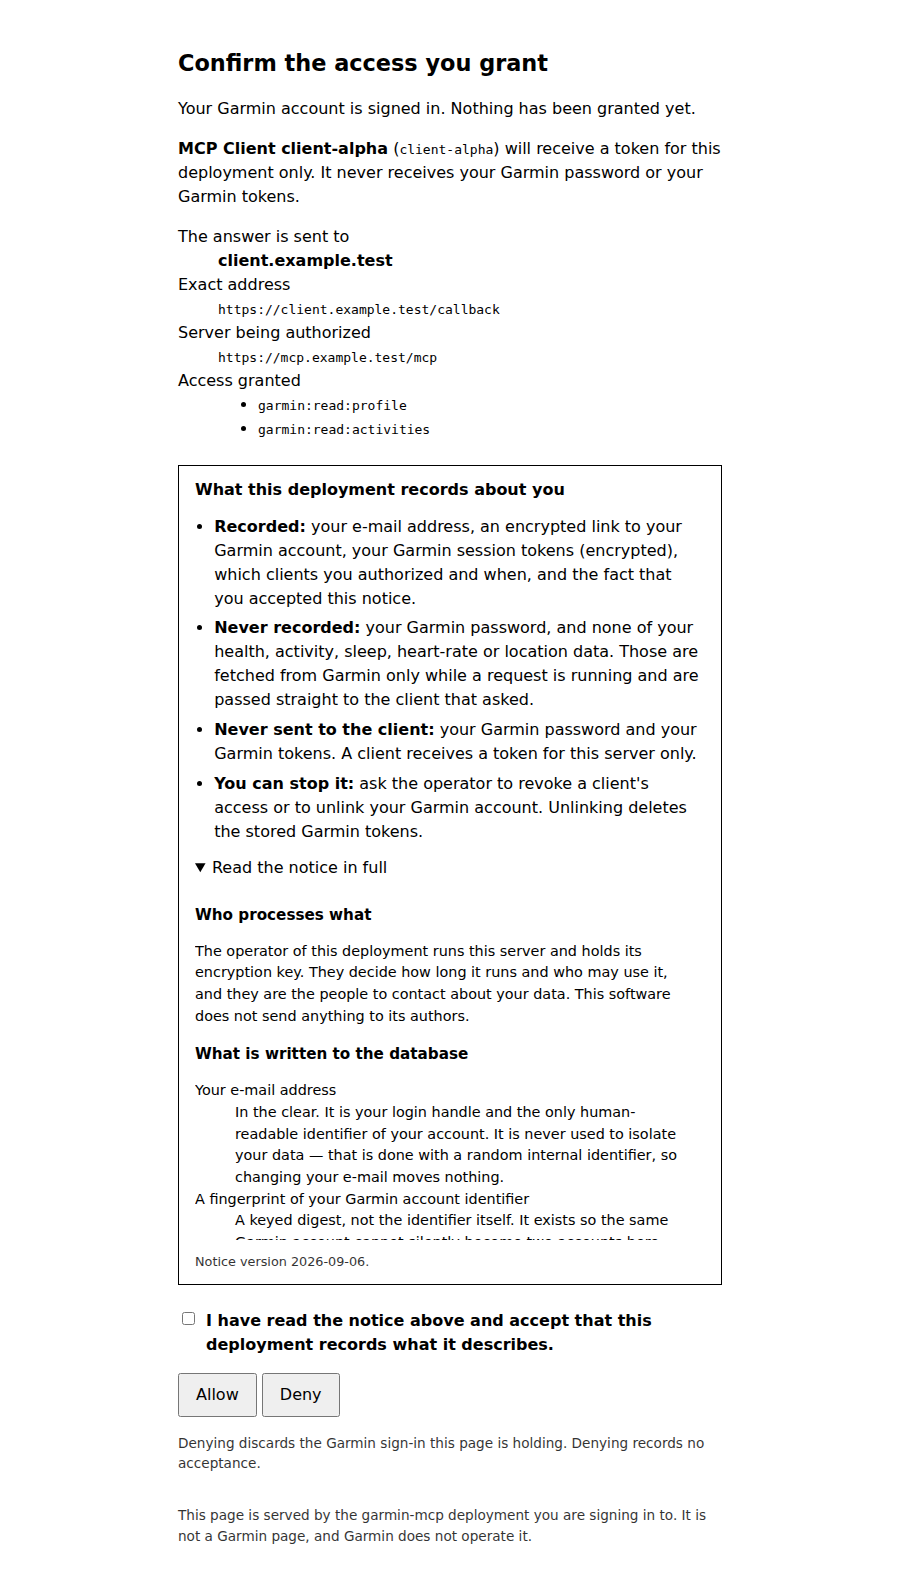
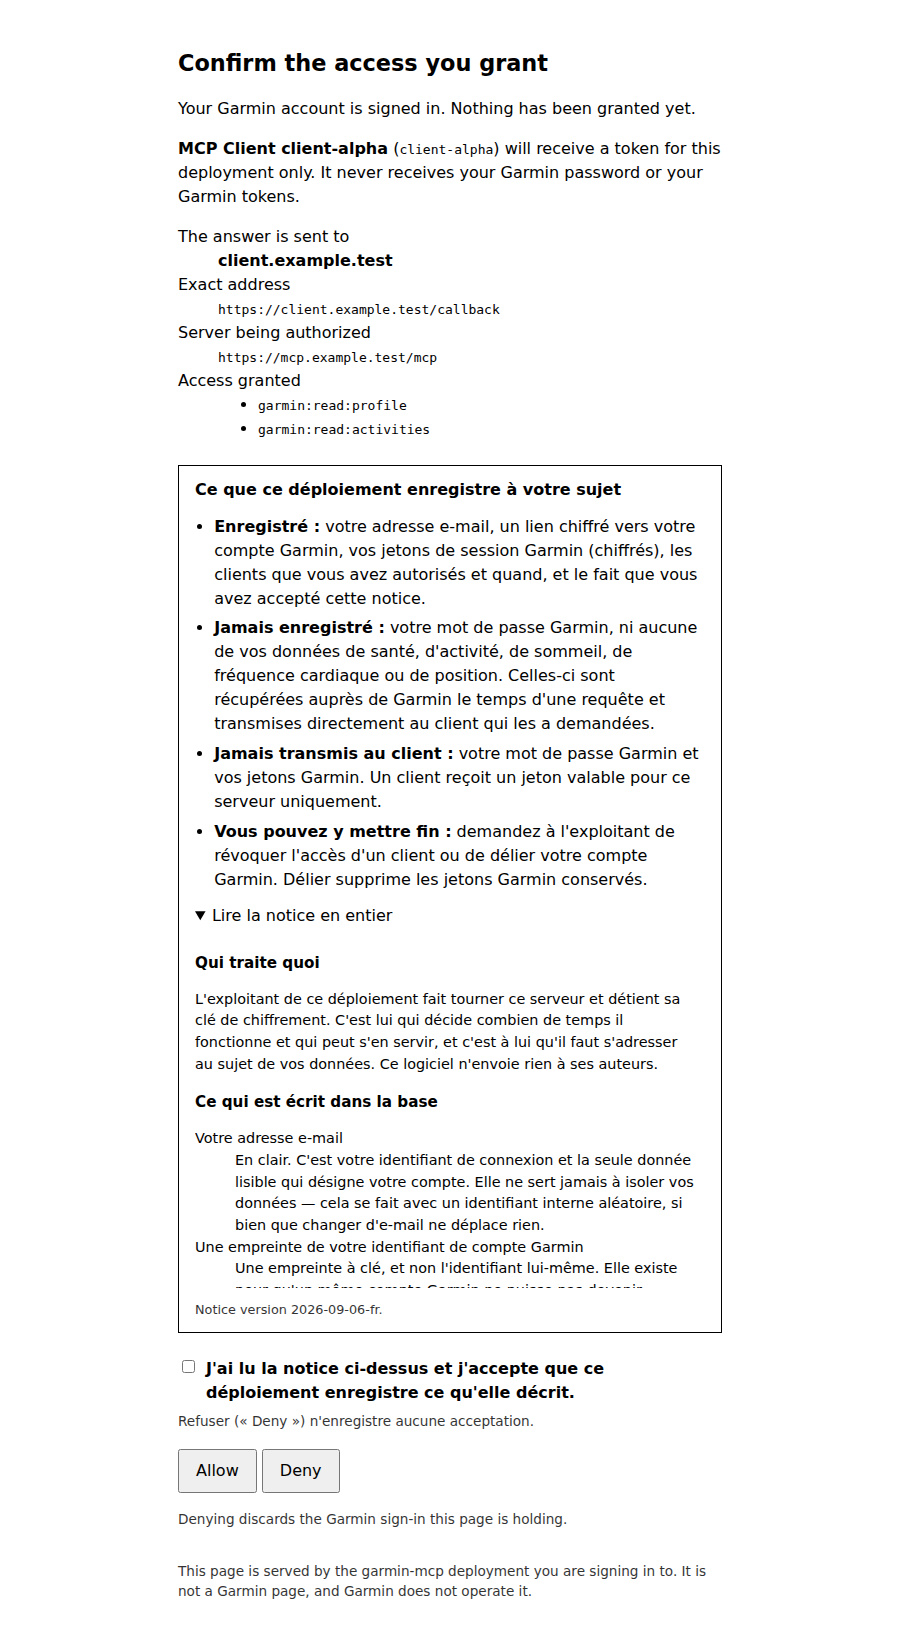
Traduire la notice de confidentialite en francais
La notice et les libelles que ce depot ajoute autour d'elle — le titre du
bloc, le depliant, la case a cocher, la phrase qui rappelle la date d'une
acceptation anterieure, et le message que le serveur renvoie quand la
case n'a pas ete cochee — passent en francais.

Le libelle de version devient 2026-09-06-fr. L'empreinte du texte change
de toute facon, donc chaque compte reverra la notice et l'acceptera a
nouveau : c'est exactement ce que le mecanisme doit faire quand le texte
change, et le libelle est la pour qu'un rapport dise laquelle.

Le reste de la page reste en anglais, parce qu'il vient du serveur amont :
le titre, le descriptif du client demandeur, les boutons Allow et Deny. La
phrase amont sur le refus est laissee intacte plutot que traduite a
moitie ; la precision que refuser n'enregistre aucune acceptation rejoint
le bloc francais, sous la case a cocher.

Verifie en executant : suite Go complete verte, page rendue et relue dans
Chromium dans ses trois etats (premiere visite, refus sans avoir coche,
compte ayant deja accepte), 60 tests Python.

Claude-Session: https://claude.ai/code/session_01WZYVEYkeEop6F5KTarVWiq

Changed region(s): [[0.1867, 0.0308, 0.7778, 0.9849]]

diff --git a/garmin-mcp/internal/loginweb/pages/remote/privacy.html b/garmin-mcp/internal/loginweb/pages/remote/privacy.html
@@ -1,113 +1,124 @@
 {{/*
-The privacy notice, in two parts: a summary that is always visible, and the full
-text behind a disclosure the reader opens if they want it.
+La notice de confidentialité, en deux parties : un résumé toujours visible, et le
+texte intégral derrière un dépliant que le lecteur ouvre s'il le souhaite.
 
-This file is the notice. Its bytes are digested at start-up and that digest is what
-an acceptance is recorded against, so editing anything here — a word, a heading, the
-whole text in another language — makes every account see the notice again and accept
-it afresh. Bump PrivacyNoticeVersion in privacy.go when you edit it, so the record
-carries a label a human can read as well as a digest a machine can compare.
+Ce fichier est la notice. Ses octets sont condensés au démarrage, et c'est cette
+empreinte qui identifie une acceptation : éditer quoi que ce soit ici — un mot, un
+titre, la traduction entière du texte — fait revoir la notice à tous les comptes, qui
+l'acceptent à nouveau. Remontez PrivacyNoticeVersion dans privacy.go quand vous
+l'éditez, pour que la ligne enregistrée porte aussi un libellé lisible.
 
-The text states what this build actually does. Check it against the code before
-changing it: the tables it names are in migrations/, and what is deliberately absent
-from them is the point of half these sentences.
+Le texte décrit ce que ce build fait réellement. Vérifiez-le contre le code avant de
+le changer : les tables qu'il nomme sont dans migrations/, et ce qui en est
+délibérément absent est le sujet de la moitié de ces phrases.
 */}}
 
 {{define "privacy_summary"}}
 <ul class="privacy-summary">
-<li><strong>Recorded:</strong> your e-mail address, an encrypted link to your Garmin
-account, your Garmin session tokens (encrypted), which clients you authorized and
-when, and the fact that you accepted this notice.</li>
-<li><strong>Never recorded:</strong> your Garmin password, and none of your health,
-activity, sleep, heart-rate or location data. Those are fetched from Garmin only
-while a request is running and are passed straight to the client that asked.</li>
-<li><strong>Never sent to the client:</strong> your Garmin password and your Garmin
-tokens. A client receives a token for this server only.</li>
-<li><strong>You can stop it:</strong> ask the operator to revoke a client's access or
-to unlink your Garmin account. Unlinking deletes the stored Garmin tokens.</li>
+<li><strong>Enregistré :</strong> votre adresse e-mail, un lien chiffré vers votre
+compte Garmin, vos jetons de session Garmin (chiffrés), les clients que vous avez
+autorisés et quand, et le fait que vous avez accepté cette notice.</li>
+<li><strong>Jamais enregistré :</strong> votre mot de passe Garmin, ni aucune de vos
+données de santé, d'activité, de sommeil, de fréquence cardiaque ou de position.
+Celles-ci sont récupérées auprès de Garmin le temps d'une requête et transmises
+directement au client qui les a demandées.</li>
+<li><strong>Jamais transmis au client :</strong> votre mot de passe Garmin et vos
+jetons Garmin. Un client reçoit un jeton valable pour ce serveur uniquement.</li>
+<li><strong>Vous pouvez y mettre fin :</strong> demandez à l'exploitant de révoquer
+l'accès d'un client ou de délier votre compte Garmin. Délier supprime les jetons
+Garmin conservés.</li>
 </ul>
 {{end}}
 
 {{define "privacy_full"}}
 <div class="privacy-full">
 
-<h3>Who processes what</h3>
-<p>The operator of this deployment runs this server and holds its encryption key.
-They decide how long it runs and who may use it, and they are the people to contact
-about your data. This software does not send anything to its authors.</p>
+<h3>Qui traite quoi</h3>
+<p>L'exploitant de ce déploiement fait tourner ce serveur et détient sa clé de
+chiffrement. C'est lui qui décide combien de temps il fonctionne et qui peut s'en
+servir, et c'est à lui qu'il faut s'adresser au sujet de vos données. Ce logiciel
+n'envoie rien à ses auteurs.</p>
 
-<h3>What is written to the database</h3>
+<h3>Ce qui est écrit dans la base</h3>
 <dl>
-<dt>Your e-mail address</dt>
-<dd>In the clear. It is your login handle and the only human-readable identifier of
-your account. It is never used to isolate your data — that is done with a random
-internal identifier, so changing your e-mail moves nothing.</dd>
+<dt>Votre adresse e-mail</dt>
+<dd>En clair. C'est votre identifiant de connexion et la seule donnée lisible qui
+désigne votre compte. Elle ne sert jamais à isoler vos données — cela se fait avec un
+identifiant interne aléatoire, si bien que changer d'e-mail ne déplace rien.</dd>
 
-<dt>A fingerprint of your Garmin account identifier</dt>
-<dd>A keyed digest, not the identifier itself. It exists so the same Garmin account
-cannot silently become two accounts here.</dd>
+<dt>Une empreinte de votre identifiant de compte Garmin</dt>
+<dd>Une empreinte à clé, et non l'identifiant lui-même. Elle existe pour qu'un même
+compte Garmin ne puisse pas devenir silencieusement deux comptes ici.</dd>
 
-<dt>Your Garmin account identifier and display name</dt>
-<dd>Encrypted, readable only with this deployment's key.</dd>
+<dt>Votre identifiant de compte Garmin et votre nom affiché</dt>
+<dd>Chiffrés, lisibles seulement avec la clé de ce déploiement.</dd>
 
-<dt>Your Garmin session tokens</dt>
-<dd>Encrypted. They are what lets this server call Garmin on your behalf without
-asking for your password again. They are replaced whenever Garmin rotates them.</dd>
+<dt>Vos jetons de session Garmin</dt>
+<dd>Chiffrés. Ce sont eux qui permettent à ce serveur d'appeler Garmin pour votre
+compte sans redemander votre mot de passe. Ils sont remplacés chaque fois que Garmin
+les renouvelle.</dd>
 
-<dt>Your authorizations</dt>
-<dd>Which client you allowed, for which address and which permissions, when you
-granted it and, if it happens, when it was revoked. A revocation is recorded rather
-than erased, so the trail of what was allowed survives.</dd>
+<dt>Vos autorisations</dt>
+<dd>Quel client vous avez autorisé, pour quelle adresse et quelles permissions, quand
+vous l'avez accordé et, le cas échéant, quand cela a été révoqué. Une révocation est
+enregistrée plutôt qu'effacée, pour que la trace de ce qui a été autorisé subsiste.</dd>
 
-<dt>Digests of the access tokens issued to your clients</dt>
-<dd>The tokens themselves are never stored and cannot be recovered from what is.
-Their issue, expiry and rotation instants are stored, which is what lets a stolen
-token be detected and revoked.</dd>
+<dt>Les empreintes des jetons d'accès délivrés à vos clients</dt>
+<dd>Les jetons eux-mêmes ne sont jamais conservés et ne peuvent pas être reconstitués
+à partir de ce qui l'est. Leurs instants d'émission, d'expiration et de renouvellement
+le sont, et c'est ce qui permet de détecter et de révoquer un jeton volé.</dd>
 
-<dt>This acceptance</dt>
-<dd>A digest of the exact text you are reading, the label it carries, and the instant
-you accepted it. That is the record that you were shown this, and which version.</dd>
+<dt>Cette acceptation</dt>
+<dd>Une empreinte du texte exact que vous êtes en train de lire, le libellé qu'il
+porte, et l'instant où vous l'avez accepté. C'est la trace du fait que ceci vous a été
+montré, et dans quelle version.</dd>
 </dl>
 
-<h3>What is never written to the database</h3>
+<h3>Ce qui n'est jamais écrit dans la base</h3>
 <ul>
-<li><strong>Your Garmin password.</strong> It is used once, to sign you in to Garmin,
-and is never stored, never logged, and never sent anywhere but Garmin.</li>
-<li><strong>Your health and activity data.</strong> No heart rate, sleep, weight,
-workout, training metric or GPS coordinate is stored here. The database has no column
-for any of it. When a client asks for such data, this server fetches it from Garmin
-and hands it to the client while the request runs; nothing is kept afterwards, on
-disk or in a cache.</li>
-<li><strong>Your IP address, your browser, your device.</strong> The database has no
-column for them. Your address is used while a request is in flight, to apply rate
-limits. Whatever the operator's own infrastructure records — a reverse proxy, a
-container log — is outside this software and is the operator's to describe.</li>
-<li><strong>What you ask your assistant.</strong> The content of your conversations
-with an MCP client never reaches this server.</li>
+<li><strong>Votre mot de passe Garmin.</strong> Il sert une fois, à vous connecter à
+Garmin, et n'est jamais conservé, jamais journalisé, et jamais envoyé ailleurs qu'à
+Garmin.</li>
+<li><strong>Vos données de santé et d'activité.</strong> Aucune fréquence cardiaque,
+aucun sommeil, aucun poids, aucune séance, aucune métrique d'entraînement, aucune
+coordonnée GPS n'est conservée ici. La base n'a de colonne pour rien de tout cela.
+Quand un client demande de telles données, ce serveur les récupère auprès de Garmin et
+les lui transmet le temps de la requête ; rien n'est gardé ensuite, ni sur disque ni
+en cache.</li>
+<li><strong>Votre adresse IP, votre navigateur, votre appareil.</strong> La base n'a
+pas de colonne pour eux. Votre adresse est utilisée pendant la requête, pour appliquer
+des limites de débit. Ce que l'infrastructure de l'exploitant enregistre de son côté —
+un reverse proxy, les journaux d'un conteneur — est extérieur à ce logiciel et c'est à
+lui de le décrire.</li>
+<li><strong>Ce que vous demandez à votre assistant.</strong> Le contenu de vos
+conversations avec un client MCP n'atteint jamais ce serveur.</li>
 </ul>
 
-<h3>What a client you authorize receives</h3>
-<p>An access token valid for this server alone, limited to the permissions shown on
-this page, and the data it then asks for. It never receives your Garmin password, your
-Garmin tokens, or access to anyone else's account. A token stops working when it
-expires, when you have its authorization revoked, or when this server detects that an
-old one was replayed.</p>
+<h3>Ce que reçoit un client que vous autorisez</h3>
+<p>Un jeton d'accès valable pour ce serveur seulement, limité aux permissions
+affichées sur cette page, puis les données qu'il demande ensuite. Il ne reçoit jamais
+votre mot de passe Garmin, ni vos jetons Garmin, ni l'accès au compte de quelqu'un
+d'autre. Un jeton cesse de fonctionner à son expiration, quand vous faites révoquer
+son autorisation, ou quand ce serveur détecte qu'un ancien jeton a été rejoué.</p>
 
-<h3>How long it is kept</h3>
-<p>Your account, your authorizations and this acceptance stay until the operator
-removes them. Expired authorization codes and tokens are deleted automatically by the
-server's cleanup, after a short retention that exists so a replayed token can still be
-recognized. Encrypted Garmin tokens are deleted when your account is unlinked.</p>
+<h3>Combien de temps c'est conservé</h3>
+<p>Votre compte, vos autorisations et cette acceptation restent jusqu'à ce que
+l'exploitant les supprime. Les codes d'autorisation et les jetons expirés sont
+supprimés automatiquement par le nettoyage du serveur, après une courte rétention qui
+existe pour qu'un jeton rejoué reste reconnaissable. Les jetons Garmin chiffrés sont
+supprimés quand votre compte est délié.</p>
 
-<h3>How to withdraw</h3>
-<p>Ask the operator to revoke your clients' authorizations, which stops every current
-token, and to unlink your Garmin account, which deletes the stored Garmin tokens and
-the link to your Garmin identity. Your acceptance record is kept as the evidence of
-what you were shown; it goes when the account itself is deleted.</p>
+<h3>Comment revenir sur votre consentement</h3>
+<p>Demandez à l'exploitant de révoquer les autorisations de vos clients, ce qui met
+fin à tous les jetons en cours, et de délier votre compte Garmin, ce qui supprime les
+jetons Garmin conservés ainsi que le lien vers votre identité Garmin. La trace de
+votre acceptation est conservée : c'est elle qui atteste de ce qui vous a été montré.
+Elle disparaît quand le compte lui-même est supprimé.</p>
 
-<h3>Where this text comes from</h3>
-<p>It describes this build, and it is served from the software itself rather than
-from a page an operator can edit invisibly: the digest recorded with your acceptance
-is the digest of this text. If it changes, you will be asked again.</p>
+<h3>D'où vient ce texte</h3>
+<p>Il décrit ce build, et il est servi par le logiciel lui-même plutôt que depuis une
+page qu'un exploitant pourrait modifier sans que cela se voie : l'empreinte
+enregistrée avec votre acceptation est l'empreinte de ce texte. S'il change, la
+question vous sera reposée.</p>
 </div>
 {{end}}

diff --git a/garmin-mcp/internal/loginweb/pages/remote/consent.html b/garmin-mcp/internal/loginweb/pages/remote/consent.html
@@ -16,10 +16,10 @@ your Garmin tokens.</p>
 </dl>
 
 <section class="privacy" aria-labelledby="privacy-heading">
-<h2 id="privacy-heading">What this deployment records about you</h2>
+<h2 id="privacy-heading">Ce que ce déploiement enregistre à votre sujet</h2>
 {{template "privacy_summary" .}}
 <details class="privacy-details">
-<summary>Read the notice in full</summary>
+<summary>Lire la notice en entier</summary>
 {{template "privacy_full" .}}
 </details>
 <p class="privacy-version">Notice version {{.Privacy.Version}}.</p>
@@ -31,19 +31,19 @@ your Garmin tokens.</p>
 <p class="privacy-accept">
 <label>
 <input type="checkbox" name="privacy_accepted" value="yes">
-I have read the notice above and accept that this deployment records what it
-describes.
+J'ai lu la notice ci-dessus et j'accepte que ce déploiement enregistre ce qu'elle
+décrit.
 </label>
+<span class="notice">Refuser (« Deny ») n'enregistre aucune acceptation.</span>
 </p>
 {{else}}
-<p class="notice">You accepted this notice on {{.Privacy.AcceptedOn}}. It has not
-changed since.</p>
+<p class="notice">Vous avez accepté cette notice le {{.Privacy.AcceptedOn}}. Elle n'a
+pas changé depuis.</p>
 {{end}}
 <p>
 <button type="submit" name="decision" value="allow">Allow</button>
 <button type="submit" name="decision" value="deny">Deny</button>
 </p>
 </form>
-<p class="notice">Denying discards the Garmin sign-in this page is holding. Denying
-records no acceptance.</p>
+<p class="notice">Denying discards the Garmin sign-in this page is holding.</p>
 {{end}}

diff --git a/garmin-mcp/internal/loginweb/remoteprivacy_test.go b/garmin-mcp/internal/loginweb/remoteprivacy_test.go
@@ -24,9 +24,9 @@ func TestConsentPageShowsTheNoticeAndAsksForAcceptance(t *testing.T) {
 	// The summary is on the page itself, not behind the disclosure: a reader who
 	// opens nothing still sees what is recorded and what is not.
 	for _, want := range []string{
-		"What this deployment records about you",
-		"Never recorded",
-		"Read the notice in full",
+		"Ce que ce déploiement enregistre à votre sujet",
+		"Jamais enregistré",
+		"Lire la notice en entier",
 		`name="privacy_accepted"`,
 	} {
 		if !strings.Contains(page, want) {
@@ -35,7 +35,7 @@ func TestConsentPageShowsTheNoticeAndAsksForAcceptance(t *testing.T) {
 	}
 	// The full text is in the document too, so accepting does not depend on a
 	// second request that could fail or be blocked.
-	if !strings.Contains(page, "What is never written to the database") {
+	if !strings.Contains(page, "Ce qui est écrit dans la base") {
 		t.Error("the full notice is not in the consent page")
 	}
 	if h.privacy.count() != 0 {
@@ -51,7 +51,7 @@ func TestGrantingWithoutAcceptingTheNoticeIsRefused(t *testing.T) {
 	resp, again := h.decideWithoutAccepting(page, decisionAllow)
 
 	wantStatus(t, resp, http.StatusBadRequest, "POST /login/consent")
-	if !strings.Contains(again, "Accept the privacy notice") {
+	if !strings.Contains(again, "Acceptez la notice de confidentialité") {
 		t.Error("the re-rendered page does not say what has to be done")
 	}
 	if !strings.Contains(again, `name="privacy_accepted"`) {
@@ -119,7 +119,7 @@ func TestASecondLoginIsNotAskedAgain(t *testing.T) {
 	if strings.Contains(second, `name="privacy_accepted"`) {
 		t.Error("a person who already accepted this notice was asked again")
 	}
-	if !strings.Contains(second, "You accepted this notice on") {
+	if !strings.Contains(second, "Vous avez accepté cette notice le") {
 		t.Error("the page does not state when the notice was accepted")
 	}
 	resp := h.decide(second, decisionAllow)

diff --git a/garmin-mcp/internal/loginweb/privacy.go b/garmin-mcp/internal/loginweb/privacy.go
@@ -23,7 +23,7 @@ import (
 // It is stored beside the digest so a report reads a date rather than 64 hex
 // characters. It is not what decides whether a person is asked again: the digest is.
 // Bump it when you edit pages/remote/privacy.html, so the two agree.
-const PrivacyNoticeVersion = "2026-09-06"
+const PrivacyNoticeVersion = "2026-09-06-fr"
 
 // privacyNoticeFile is the embedded document whose bytes are the notice.
 const privacyNoticeFile = "pages/remote/privacy.html"

diff --git a/garmin-mcp/internal/loginweb/remotehandlers.go b/garmin-mcp/internal/loginweb/remotehandlers.go
@@ -39,7 +39,8 @@ const (
 
 // msgPrivacyRequired is shown when the notice was not accepted. It states what to do
 // rather than blaming the reader, and quotes nothing that was submitted.
-const msgPrivacyRequired = "Accept the privacy notice below to grant access, or choose Deny."
+const msgPrivacyRequired = "Acceptez la notice de confidentialité ci-dessous pour " +
+	"accorder l'accès, ou choisissez Deny."
 
 // Handler returns the router for this deployment.
 //

diff --git a/scripts/demo_database.py b/scripts/demo_database.py
@@ -102,7 +102,7 @@ def build(path: Path, seed: int = 7) -> None:
                 (
                     principal_id,
                     f"{index:064d}",
-                    "2026-09-06",
+                    "2026-09-06-fr",
                     iso(created + timedelta(minutes=4)),
                 ),
             )

diff --git a/README.md b/README.md
@@ -119,12 +119,17 @@ de ce qui a été accepté survit.
 ### Modifier le texte
 
 Il est dans `garmin-mcp/internal/loginweb/pages/remote/privacy.html`, en deux blocs
-(résumé et texte intégral). Il est en anglais, comme le reste des pages de login du
-serveur amont ; le traduire est une édition de ce seul fichier, et l'empreinte changeant,
-chacun le réacceptera. Pensez à remonter `PrivacyNoticeVersion` dans
-`garmin-mcp/internal/loginweb/privacy.go` pour que la ligne enregistrée porte aussi un
-libellé lisible. Le détail est dans
+(résumé et texte intégral), **en français**. Le modifier ou le traduire est une édition de
+ce seul fichier ; l'empreinte changeant, chacun le réacceptera. Pensez à remonter
+`PrivacyNoticeVersion` dans `garmin-mcp/internal/loginweb/privacy.go` pour que la ligne
+enregistrée porte aussi un libellé lisible. Le détail est dans
 [garmin-mcp/docs/privacy-notice.md](garmin-mcp/docs/privacy-notice.md).
+
+Le reste de la page de login vient du serveur amont et est en anglais : le titre, le
+descriptif du client demandeur, les boutons *Allow* et *Deny*. Seul le bloc ajouté par ce
+dépôt est traduit. Traduire les pages amont est possible — ce sont les fichiers voisins
+dans `pages/remote/` — mais chaque fichier touché est un conflit potentiel à la prochaine
+mise à jour du subtree.
 
 Le texte livré décrit ce que ce build fait réellement, vérifié contre le schéma. **Si
 vous changez ce que le serveur stocke, la notice fait partie du changement** — et c'est

diff --git a/garmin-mcp/docs/privacy-notice.md b/garmin-mcp/docs/privacy-notice.md
@@ -36,7 +36,10 @@ trail of what was accepted, and when, survives.
 ## Editing the text
 
 The notice is `internal/loginweb/pages/remote/privacy.html`. It is a template with two
-blocks — `privacy_summary` and `privacy_full` — and the consent page renders both.
+blocks — `privacy_summary` and `privacy_full` — and the consent page renders both. The
+shipped text is in French, as are the labels this fork adds around it (the heading, the
+disclosure, the acceptance box and the server's refusal message). The rest of the login
+pages are upstream and remain in English.
 
 Its bytes are digested at start-up, and an acceptance is recorded against that digest.
 So editing anything in that file — a word, a heading, the whole text translated into
